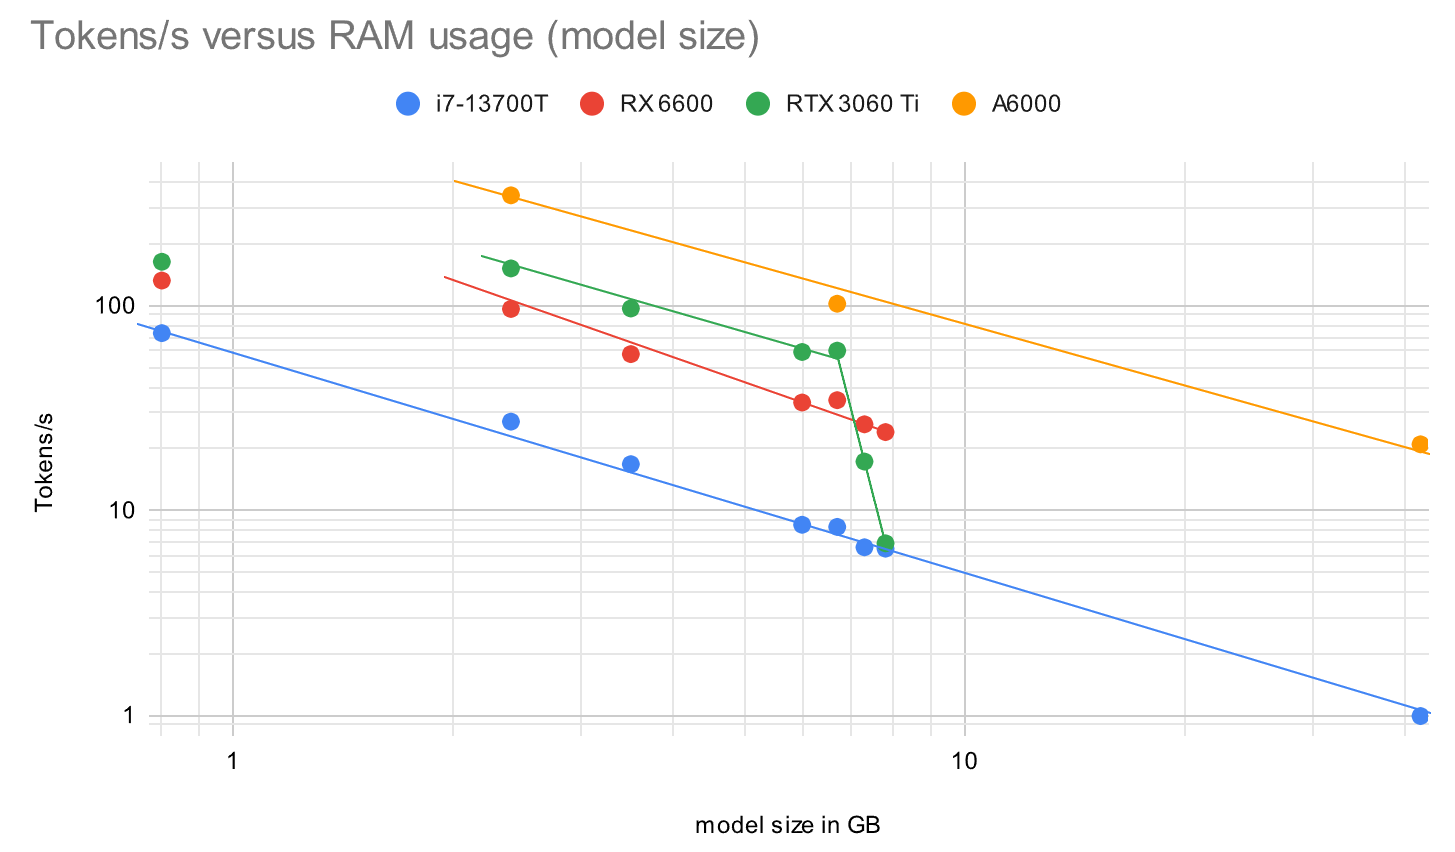
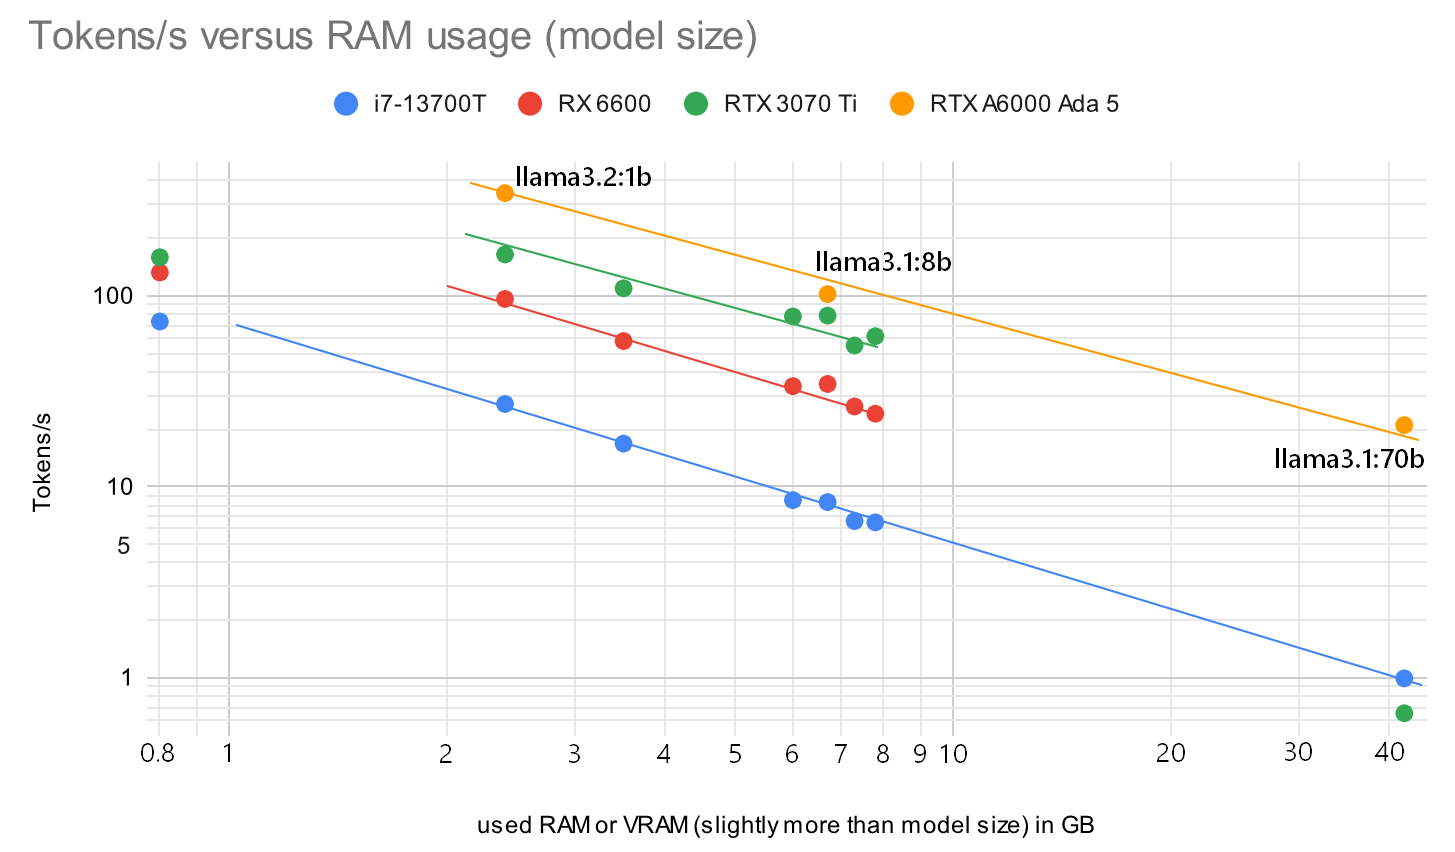
updated inference results

diff --git a/README.md b/README.md
@@ -106,7 +106,7 @@ Only __two__ of 8 are supported by the Triton GPU compiler. How about a newer GP
 - AMD GPUs (ROCm 5.2+)
 - Under development: CPUs
 
-My AMD RX 470, RX 580 and RX 6600 are too old to be [supported by ROCm](https://rocm.docs.amd.com/en/latest/compatibility/compatibility-matrix.html), even though the 6600 already uses [RNDA2](https://en.wikipedia.org/wiki/RDNA_2). And can be used if the llvm target is overwritten to be gfx1030 instead of [gfx1032](https://rocm.docs.amd.com/projects/install-on-windows/en/latest/reference/system-requirements.html). Given the history of Nvidia with [CUDA since 2007](https://en.wikipedia.org/wiki/CUDA) that dropped support for the first Tesla GPUs with Compute Capability 1.1 only with CUDA SDK 7.0 this is quite a difference. For CUDA SDK 12.0 a CC of 5.0 (Maxwell and newer) is required. That's true [for ollama](https://github.com/ollama/ollama/blob/main/docs/gpu.md), too.
+My AMD RX 470, RX 580 and RX 6600 are too old to be [supported by ROCm](https://rocm.docs.amd.com/en/latest/compatibility/compatibility-matrix.html), even though the 6600 already uses [RNDA2](https://en.wikipedia.org/wiki/RDNA_2). And can be used if the llvm target is overwritten to be gfx1030 instead of [gfx1032](https://rocm.docs.amd.com/projects/install-on-windows/en/latest/reference/system-requirements.html). The ROCm installation needs 30 GB! Nvidia is ahead of the game for some time now with [CUDA since 2007](https://en.wikipedia.org/wiki/CUDA). Support for the first Tesla GPUs with Compute Capability 1.1 was only dropped with CUDA SDK 7.0 in 2016. For the current CUDA SDK 12.0 (since 2022) a CC of 5.0 (Maxwell and newer since 2014) is required. That's true [for ollama](https://github.com/ollama/ollama/blob/main/docs/gpu.md), too. In 2024 that's 10 year old hardware.
 
 ## Inference on local hardware
 
@@ -114,9 +114,13 @@ In early 2023 I ran a 8b model with a 4bit quantization on my MacBook Pro at SSI
 
 ![performance](pic/llm_cpu_gpu_tokens.png)
 
-Turns out that the token creation rate is inverse proportional to the size of the model! A large model might fit into your RAM or VRAM, but the larger the model, the slower an answer will be. I found 20 tokens/s and faster a respectable speed to use an LLM, and looking at the graph you see what hardware you will need. And that CPUs are out of the question. Both RX 6600 and RTX 3060 Ti have 8GB of RAM, and if the used VRAM gets closer to the limit the spead significantly decreases. I got the RX 6600 for $130 and the RTX 3060 Ti for $200. To get the same performance of a 8b model for a 70b model I would need a RTX A6000 Ada with 48 GB of RAM for $6000. Yet the accuracy would be nice:
+Turns out that the token creation rate is inverse proportional to the size of the model! A large model might fit into your RAM or VRAM, but the larger the model, the slower an answer will be. The above graph has quantization 4 bit to fp16, yet the speed is not related to the parameters, but the model size in RAM.
+
+I found 20 tokens/s and faster a usable speed to use an LLM, and looking at the graph you see what hardware you will need. CPUs are out of the question. Both RX 6600 and RTX 3060 Ti have 8GB of RAM. I got the RX 6600 for $130 and the RTX 3060 Ti for $200. To get the same tokens/s that I have with 8b models also for a 70b model I would need a RTX A6000 Ada with 48 GB of RAM for $6000. And even that is by far not enough for a 405b model. Yet the possible accuracy would be nice:
 
 ![accuracy](pic/accuracy_llms.png)
+
+Measurements done by Meta.
 
 ## History
 
